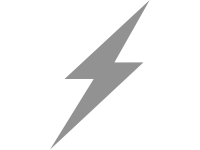
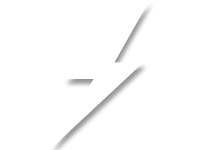
Removed admin bar, combined with page heading

Changed region(s): [[0.24, 0.0, 0.75, 1.0]]

diff --git a/app/assets/stylesheets/v2.css.scss b/app/assets/stylesheets/v2.css.scss
@@ -284,6 +284,14 @@ body.v2 {
         margin-top: 0;
         border: 0;
       }
+      .page_title_logo{
+        padding-left:0;
+        text-align: center;
+        img{
+          max-width:100%;
+          max-height:67px;
+        }
+      }
       .header_content_bg_wrapper{
         overflow: 0;
         position: absolute;
@@ -304,7 +312,7 @@ body.v2 {
           color: #E8E8E8;
         }
         h1{
-          margin-top:0;
+          margin: 0;
           font-family: ProximaNova-Semibold;
           font-size: 3em;
           color: #EAEAEA;
@@ -315,8 +323,8 @@ body.v2 {
         }
       }
     }
-    .admin_nav_wrapper{
-      background-color:#fff;
+    .context_nav_wrapper{
+      //background-color:#fff;
       z-index:2;
       position:relative;
       min-height: 15px;
@@ -341,7 +349,7 @@ body.v2 {
       .nav-bumper{
         content: "";
         width:10%;
-        background-color: #ebebeb;
+        //background-color: #ebebeb;
         @include box-shadow(inset 0 -8px 6px -6px rgba(0,0,0,0.1));
       }
       nav{
@@ -356,27 +364,23 @@ body.v2 {
             width: 25%;
             text-align: center;
             margin:0;
-            padding: 15px 0 0;
-            height:100%;
+            padding: 5px 0 0;
+            max-height:85px;
             position: relative;
             overflow: hidden;
-            .img-wrapper{
-              background: #ebebeb;
-              padding-bottom:16px;
-              position: relative;
-              z-index: 1;
-              @include box-shadow(inset 0 -8px 6px -6px rgba(0,0,0,0.1));
-            }
             .title{
               white-space: nowrap;
+              padding-top:2px;
+              font-size:0.7em;
+              @include text-shadow(1px, 1px, 2px, rgba(0,0,0,0.7));
               @media screen and (max-width: $col-sm) {
                 display:none;
               }
             }
             a{
-              color: #000; /* TODO: set a link color */
+              color: #fff;
               img{
-                width: 34%;
+                max-width: 70%;
                 display: inline-block;
               }
               img.alt{
@@ -391,49 +395,6 @@ body.v2 {
                 display: inline-block;
               }
             }
-          }
-          li:before {
-            content:"";
-            position: absolute;
-            left: 0px;
-            width: 100%;
-            height: 16px;
-            top: 0px;
-            background-color: #ebebeb;
-          }
-          li.active{
-            @include box-shadow(8px 5px 6px -6px rgba(0, 0, 0, 0.1));
-            z-index:2;
-            .img-wrapper{
-              @include box-shadow(none);
-              background: #fff;
-            }
-            img.alt{
-              display: inline-block;
-            }
-            img.reg{
-              display: none;
-            }
-          }
-          li.active:before {
-            content:"";
-            position: absolute;
-            left: -6px;
-            width: 50%;
-            height: 16px;
-            top: 0px;
-            background-color: #fff;
-            @include transform(skew(40deg));
-          }
-          li.active:after{
-            content:"";
-            position: absolute;
-            right: -6px;
-            width: 50%;
-            height: 16px;
-            top: 0px;
-            background-color: #fff;
-            @include transform(skew(-40deg));
           }
         }
       }

diff --git a/app/helpers/layout_helper.rb b/app/helpers/layout_helper.rb
@@ -19,6 +19,12 @@ module LayoutHelper
     'limit-size' if title.length > 25
   end
 
+  def page_title_logo
+    if @channel.logo.present?
+      @channel.logo
+    end
+  end
+
   def page_subtitle
     return @page_subtitle if @page_subtitle.present?
     subtitle = ''
@@ -98,5 +104,54 @@ module LayoutHelper
           blurred: '/assets/partners/index-hero-invert.jpg'
         }
       end
+  end
+
+  def page_context_links 
+     controller_parts = request.path_parameters[:controller].split("/")
+    
+    if controller_parts.index("resources")
+      active_link = "resources"
+    elsif controller_parts.index("metrics")
+      active_link = "metrics"
+    elsif controller_parts.index("chalklers")
+      active_link = "people"
+    else
+      active_link = "courses"
+    end
+
+    nav_links = []
+
+    if @channel.id.present?
+          nav_links << {
+                  img_name: "bolt",
+                  link: channel_path(@channel.url_name),
+                  active: active_link == "courses",
+                  title: "Classes"
+                }
+
+    nav_links << {
+                  img_name: "people",
+                  link: channel_channel_teachers_path(@channel.url_name),
+                  active: active_link == "people",
+                  title: "People"
+                }
+      if policy(@channel).metrics?           
+        nav_links  << {
+                        img_name: "metrics",
+                        link: metrics_path,
+                        active: active_link == "metrics",
+                        title: "Metrics"
+                      }
+      end
+      if policy(@channel).resources? 
+        nav_links <<  {
+                        img_name: "book",
+                        link: resources_path,
+                        active: active_link == "resources",
+                        title: "Resources"
+                      }
+      end
+    end
+    nav_links
   end
 end

diff --git a/app/policies/channel_policy.rb b/app/policies/channel_policy.rb
@@ -2,7 +2,7 @@ class ChannelPolicy < ApplicationPolicy
 
   def initialize(user, channel)
     @user = user
-    @course = channel
+    @channel = channel
   end
 
   def edit?
@@ -13,9 +13,12 @@ class ChannelPolicy < ApplicationPolicy
     @user.super? or @user.chalkler.channels_adminable.include? @channel
   end
 
-  class Scope < Scope
-    def resolve
-      scope
-    end
+  def metrics?
+    update?
   end
+
+  def resources?
+    update?
+  end
+
 end
